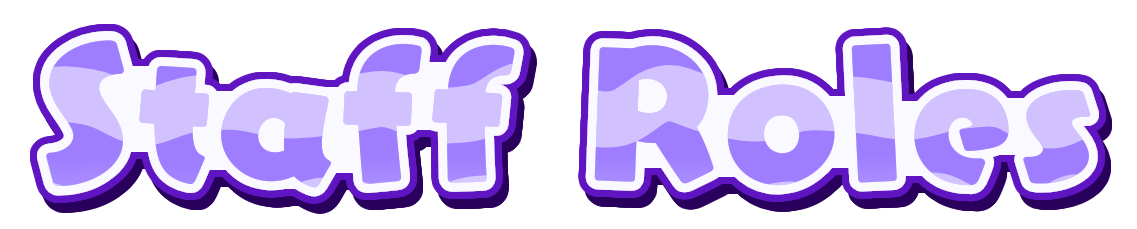
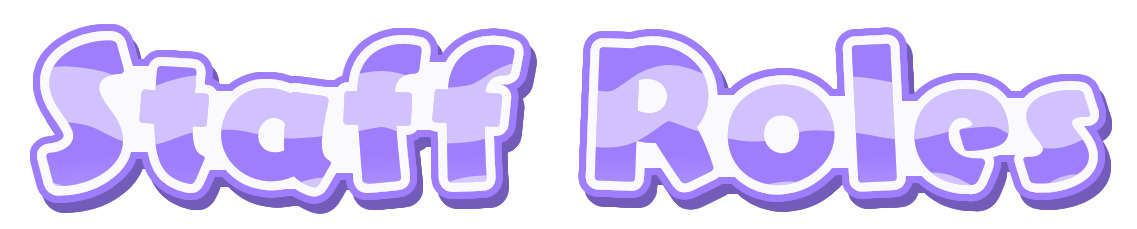
Change heading generator

Changed region(s): [[0.0, 0.1223, 0.985, 0.9476], [0.0308, 0.0917, 0.3078, 0.6419], [0.3078, 0.1223, 0.4617, 0.2751]]

diff --git a/maintenance/headingPalette.ts b/maintenance/headingPalette.ts
@@ -7,9 +7,9 @@ export const createHeadingPalette = (accent: string | undefined) => {
         return {
             fillTop: "#ff75bf",
             fillBottom: "#ffe0b2",
-            outline: "#8850b5",
+            outline: "#b48cdb",
             innerOutline: "#ffffff",
-            shadow: "#39204f",
+            shadow: "#8b63b0",
             waves: "rgba(255, 250, 224, 0.55)",
         };
     }
@@ -29,9 +29,9 @@ export const createHeadingPalette = (accent: string | undefined) => {
     return {
         fillTop: tone(Math.min(0.8, Math.max(0.68, color.l + 0.05)), 0.85),
         fillBottom: tone(0.88, 0.35),
-        outline: tone(0.44, 1.05),
+        outline: tone(0.68, 1.05),
         innerOutline: tone(0.985, 0.05),
-        shadow: tone(0.25, 0.65),
+        shadow: tone(0.54, 0.65),
         waves: tone(0.99, 0.08, 0.55),
     };
 };
